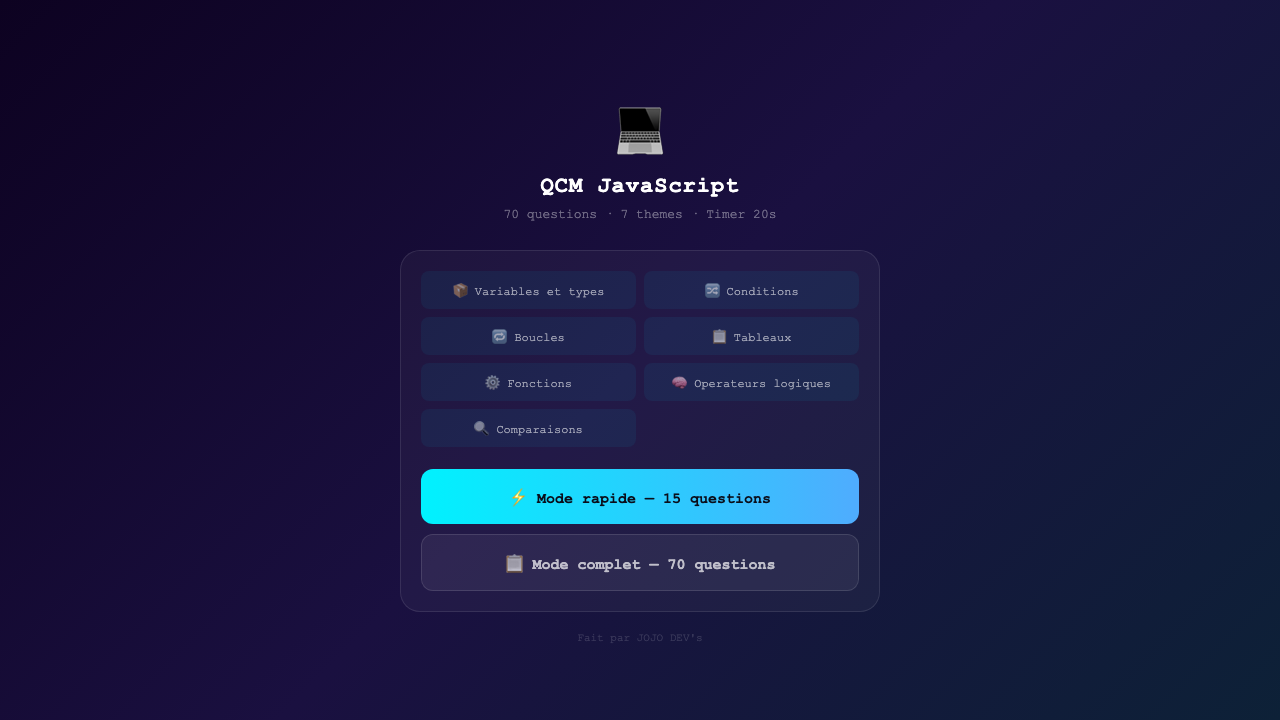
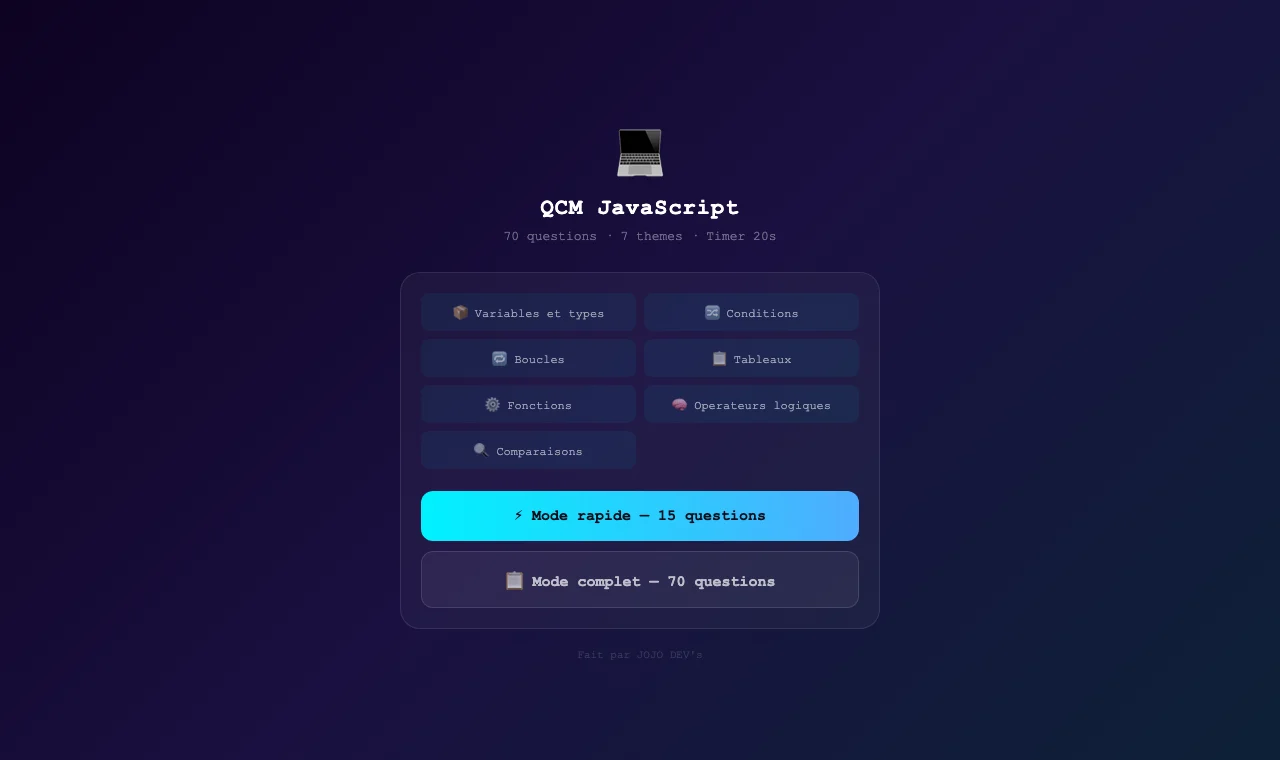
Projet QCM JavaScript -> Vue 3 (migration Vite), capture live + liens (categorie Vue)

diff --git a/src/components/Projects.jsx b/src/components/Projects.jsx
@@ -15,7 +15,7 @@ export const fallbackProjects = [
   { id: 4, title: 'Afro Flash Bénin', description: "Média d'actualités du Bénin développé avec Laravel — base de données, rubriques et back-end.", longDescription: "Refonte complète d'un site vitrine statique en un véritable média en ligne avec Laravel : architecture MVC, base de données relationnelle (Eloquent), gestion des articles par rubriques, bandeau « dernière minute », recherche, pages article détaillées (auteur, temps de lecture, tags, partage réseaux) et formulaires contact/newsletter enregistrés en base. Déployé via Docker sur Render.", role: 'Conception & développement back-end', year: '2026', imageUrl: '/images/afro-flash-benin.webp', category: 'Laravel', tech: ['Laravel', 'PHP', 'MySQL', 'Blade', 'Tailwind'], github: 'https://github.com/JOJODEVS-GIT/afro-flash-benin', live: 'https://afro-flash-benin.onrender.com' },
   { id: 5, title: 'Reality Prompt Engine', description: 'Générateur de prompts éditoriaux avec génération de contenu par IA (Google Gemini).', longDescription: "Migration d'un outil statique vers une application React, enrichie d'une véritable intégration IA. À partir d'une configuration (plateforme, public, thème, ton…), l'app construit un prompt structuré puis génère réellement le post via l'API Google Gemini, appelée par une fonction serverless qui garde la clé côté serveur. Mode clair/sombre et copie en un clic conservés.", role: 'Développement & intégration IA', year: '2026', imageUrl: '/images/reality-prompt.webp', category: 'React', tech: ['React', 'Vite', 'Serverless', 'Google Gemini'], github: 'https://github.com/JOJODEVS-GIT/REALITY-PROMPT-ENGINE', live: 'https://reality-prompt-engine.vercel.app' },
   { id: 6, title: 'Mon Produit', description: 'Tableau de bord de rentabilité produits (bénéfice, ROI, graphiques), migré en Vue 3.', longDescription: "Migration d'un outil statique vers une application Vue 3 (Composition API). Tableau éditable en ligne, calcul automatique du bénéfice et du ROI, statut de rentabilité, simulateur de volume, graphiques (Chart.js), export CSV et persistance locale. Le rendu et le comportement d'origine sont conservés.", role: 'Migration & développement (Vue.js)', year: '2026', imageUrl: '/images/mon-produit.webp', category: 'Vue', tech: ['Vue 3', 'Vite', 'Chart.js', 'localStorage'], github: 'https://github.com/JOJODEVS-GIT/MON-PRODUIT', live: 'https://mon-produit.vercel.app' },
-  { id: 7, title: 'QCM JavaScript', description: 'Quiz interactif JavaScript — 70 questions, 7 thèmes, timer 20s par question.', longDescription: "Quiz interactif pour s'entraîner en JavaScript : 70 questions réparties en 7 thèmes, timer de 20s par question et statistiques de résultats. Ludique et pédagogique.", role: 'Conception & développement', year: '2024', imageUrl: '/images/qcm-javascript.webp', category: 'HTML/CSS/JS', tech: ['HTML', 'CSS', 'JavaScript'], github: 'https://github.com/JOJODEVS-GIT/QCM-JAVASCRIPT', live: 'https://jojodevs-git.github.io/QCM-JAVASCRIPT/' },
+  { id: 7, title: 'QCM JavaScript', description: "Quiz interactif JavaScript (70 questions, timer, scores), migré en Vue 3.", longDescription: "Migration d'un quiz statique vers une application Vue 3 (Composition API) : 70 questions sur 7 thèmes, timer de 20s par question, coloration syntaxique du code, correction expliquée, statistiques par thème et meilleurs scores sauvegardés localement. Le rendu et le comportement d'origine sont conservés.", role: 'Migration & développement (Vue.js)', year: '2026', imageUrl: '/images/qcm-javascript.webp', category: 'Vue', tech: ['Vue 3', 'Vite', 'localStorage'], github: 'https://github.com/JOJODEVS-GIT/QCM-JAVASCRIPT', live: 'https://qcm-javascript.vercel.app' },
   { id: 8, title: 'Suivi Chauffeur', description: 'Suivi de paiements chauffeur en temps réel (Firebase), migré en React.', longDescription: "Migration d'un outil statique vers une application React (Vite) connectée à Firebase Firestore : synchronisation temps réel entre appareils, ajout et suppression de paiements protégés par code PIN, barre de progression vers un objectif, historique paginé et mode sombre. Le rendu et le comportement d'origine sont conservés, sur le même projet Firestore.", role: 'Migration & développement (React + Firebase)', year: '2026', imageUrl: '/images/suivi-chauffeur.webp', category: 'React', tech: ['React', 'Vite', 'Firebase', 'Firestore'], github: 'https://github.com/JOJODEVS-GIT/SUIVI-CHAUFFEUR', live: 'https://suivi-chauffeur.vercel.app' },
   { id: 9, title: 'Générateur QR Codes', description: 'Outil desktop de génération de QR codes avec interface graphique Tkinter.', longDescription: "Application desktop de génération de QR codes avec une interface graphique Tkinter. Un utilitaire simple et efficace développé en Python.", role: 'Développement Python', year: '2023', gradient: 'from-purple-600 to-[#0F3460]', category: 'Python', tech: ['Python', 'Tkinter', 'qrcode'], github: 'https://github.com/JOJODEVS-GIT/GENERATEUR-QR-CODES' },
 ];

diff --git a/src/admin/Dashboard.jsx b/src/admin/Dashboard.jsx
@@ -72,7 +72,7 @@ const seedData = {
     { title: 'Afro Flash Bénin', description: "Média d'actualités du Bénin développé avec Laravel — base de données, rubriques et back-end.", category: 'Laravel', tech: ['Laravel', 'PHP', 'MySQL', 'Blade', 'Tailwind'], github: 'https://github.com/JOJODEVS-GIT/afro-flash-benin', live: 'https://afro-flash-benin.onrender.com', imageUrl: '/images/afro-flash-benin.webp', order: 2 },
     { title: 'Reality Prompt Engine', description: "Générateur de prompts éditoriaux avec génération de contenu par IA (Google Gemini), migré en React.", category: 'React', tech: ['React', 'Vite', 'Serverless', 'Google Gemini'], github: 'https://github.com/JOJODEVS-GIT/REALITY-PROMPT-ENGINE', live: 'https://reality-prompt-engine.vercel.app', imageUrl: '/images/reality-prompt.webp', order: 3 },
     { title: 'Mon Produit', description: 'Tableau de bord de rentabilité produits (bénéfice, ROI, graphiques), migré en Vue 3.', category: 'Vue', tech: ['Vue 3', 'Vite', 'Chart.js', 'localStorage'], github: 'https://github.com/JOJODEVS-GIT/MON-PRODUIT', live: 'https://mon-produit.vercel.app', imageUrl: '/images/mon-produit.webp', order: 4 },
-    { title: 'QCM JavaScript', description: 'Quiz interactif JavaScript — 60 questions, timer, stats par thème.', gradient: 'from-yellow-600 to-[#16C79A]', category: 'HTML/CSS/JS', tech: ['HTML', 'CSS', 'JavaScript'], github: 'https://github.com/JOJODEVS-GIT/QCM-JAVASCRIPT', live: 'https://qcm-javascript.vercel.app', imageUrl: '/images/qcm-javascript.webp', order: 5 },
+    { title: 'QCM JavaScript', description: 'Quiz interactif JavaScript (70 questions, timer, scores), migré en Vue 3.', category: 'Vue', tech: ['Vue 3', 'Vite', 'localStorage'], github: 'https://github.com/JOJODEVS-GIT/QCM-JAVASCRIPT', live: 'https://qcm-javascript.vercel.app', imageUrl: '/images/qcm-javascript.webp', order: 5 },
     { title: 'Suivi Chauffeur', description: 'Suivi de paiements chauffeur en temps réel avec Firebase, migré en React.', category: 'React', tech: ['React', 'Vite', 'Firebase', 'Firestore'], github: 'https://github.com/JOJODEVS-GIT/SUIVI-CHAUFFEUR', live: 'https://suivi-chauffeur.vercel.app', imageUrl: '/images/suivi-chauffeur.webp', order: 6 },
     { title: 'MERAYA — First Anniversary', description: 'Landing événementielle premium pour une marque de mode : hero vidéo, animations GSAP et réservation en ligne.', gradient: 'from-[#0F3460] to-[#16C79A]', category: 'React', tech: ['Next.js', 'React', 'TypeScript', 'GSAP', 'Tailwind'], github: 'https://github.com/JOJODEVS-GIT/meraya', live: 'https://meraya-demo.vercel.app', imageUrl: '/images/meraya.webp', order: 7 },
     { title: 'Bloom Event', description: "Plateforme de réservation d'événements au Bénin développée avec Laravel — base de données, réservations et back-end.", category: 'Laravel', tech: ['Laravel', 'PHP', 'MySQL', 'Bootstrap', 'Blade'], github: 'https://github.com/JOJODEVS-GIT/bloom-event-laravel', live: 'https://bloom-event.onrender.com', imageUrl: '/images/bloom-event.webp', order: 8 },
